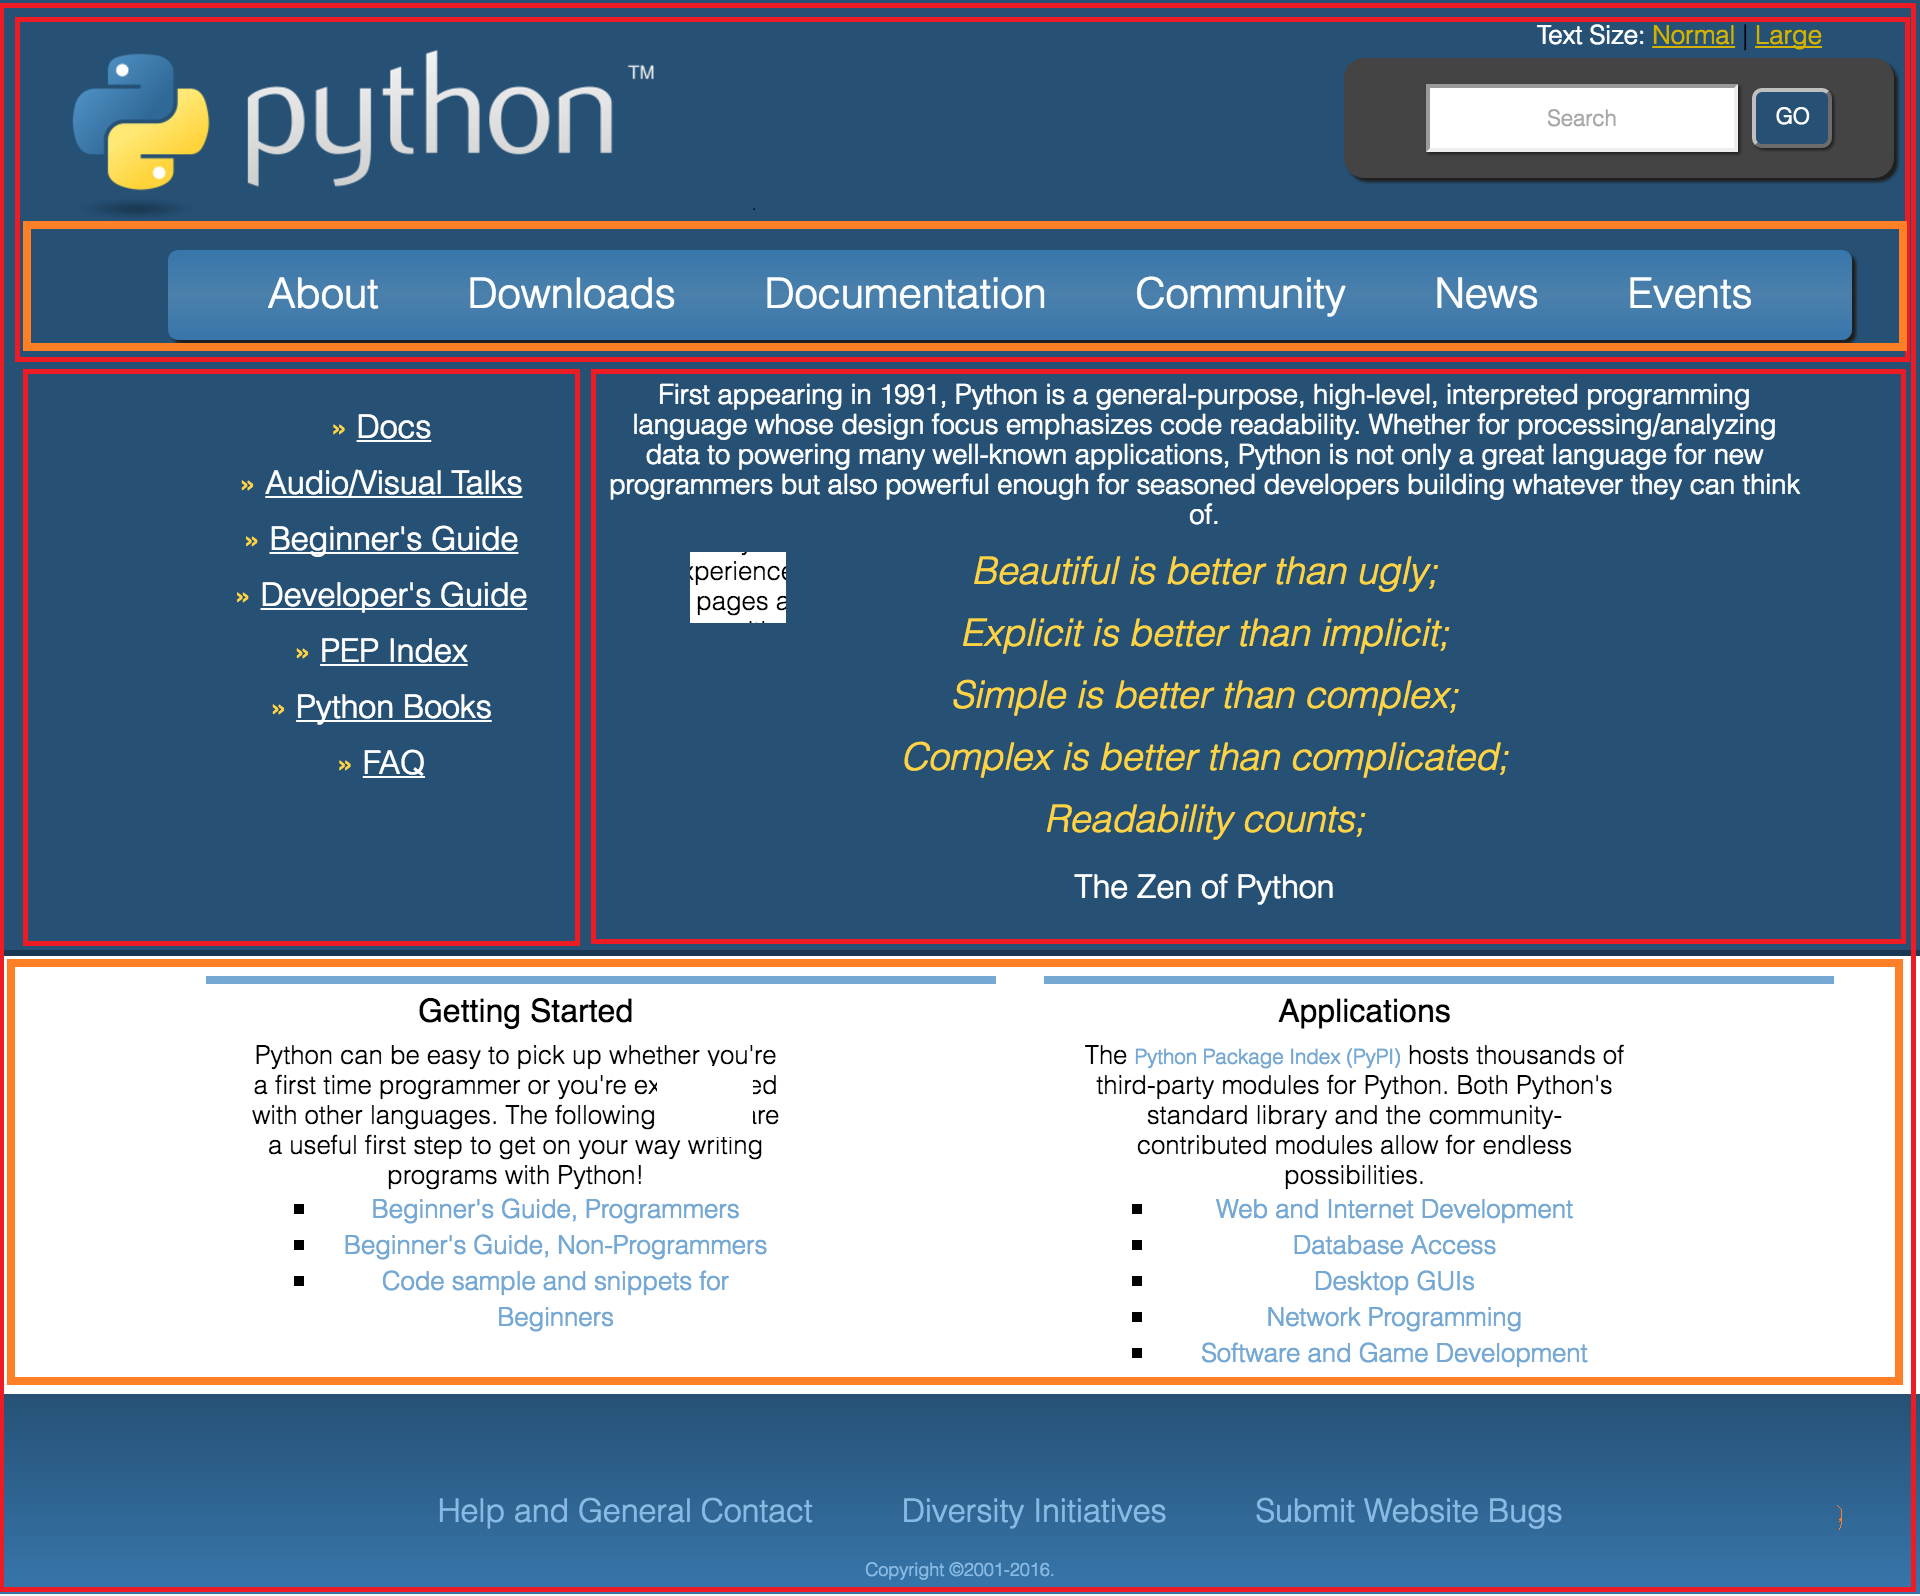
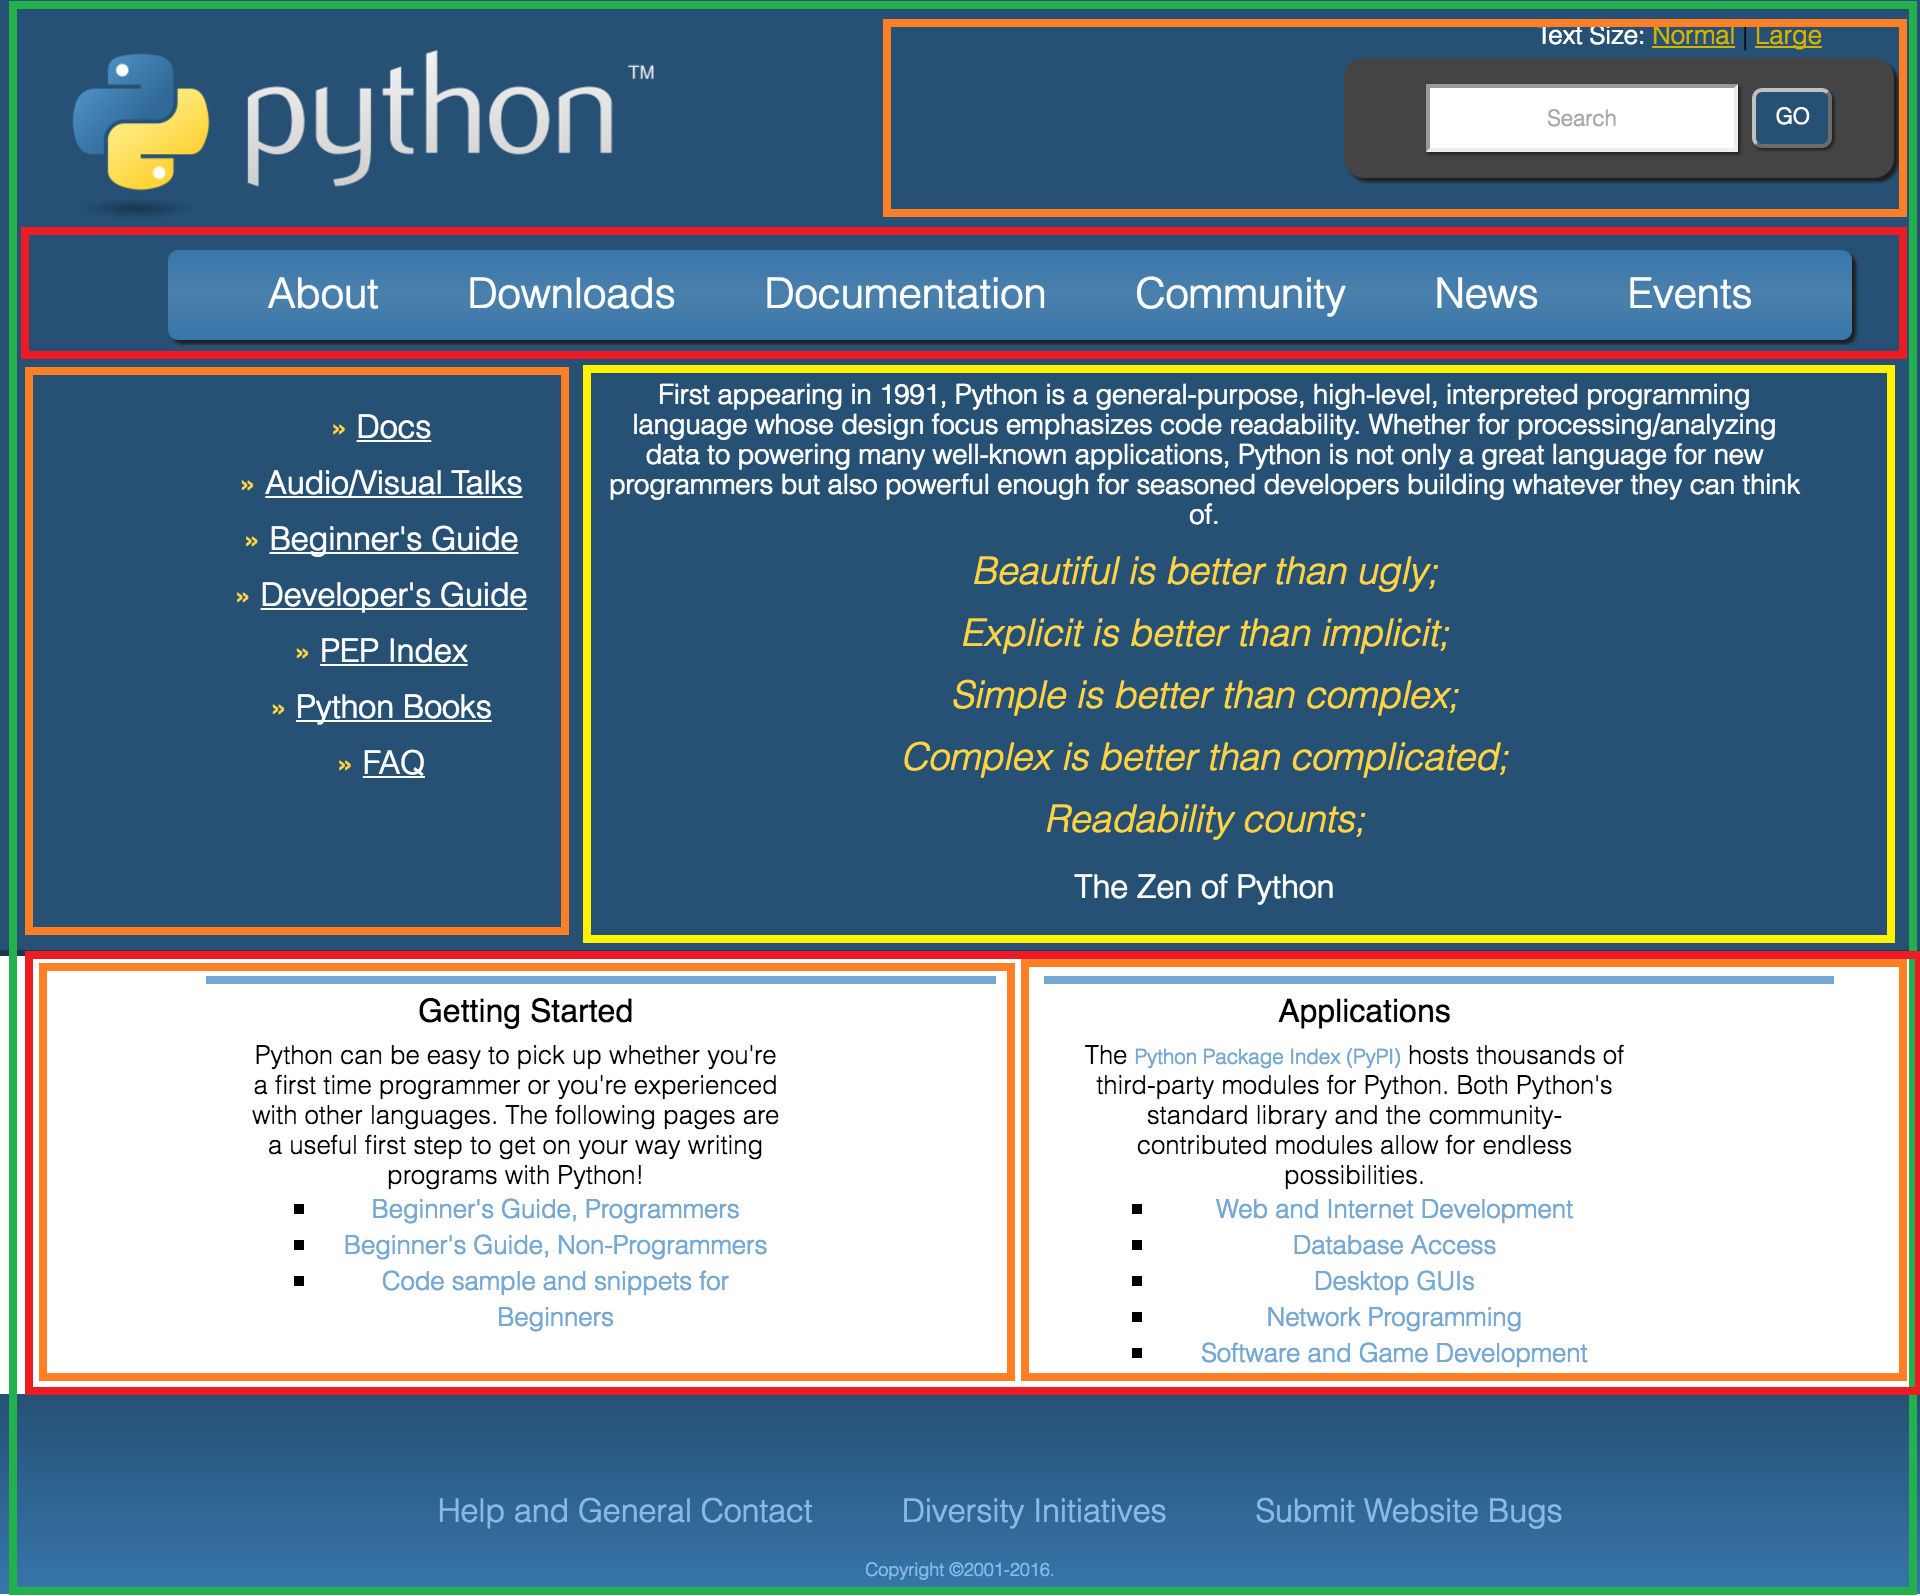
Add files via upload

Changed region(s): [[0.0, 0.0, 1.0, 1.0], [0.3438, 0.3377, 0.4062, 0.3991], [0.3438, 0.6754, 0.4062, 0.7061]]

diff --git a/CSS/tarea_Phyton/Acerca_de_Python.html b/CSS/tarea_Phyton/Acerca_de_Python.html
@@ -11,24 +11,31 @@
 
 <body>
     <div id="wrapper">
-        <div id="header">
-            <img id="logo" src="python.png" alt="logo de Python">
+
+        <img id="logo" src="python.png" alt="logo de Python">
+
+        <div id="cajaTop-right">
             <p class="uppertext"> Text Size: <a class="upperlinks" href="">Normal</a>
                 <a class="upperlinks" href="">Large</a>
             </p>
-
-            <div id="top-navegator">
-                <ul class="ul_upperbarra">
-                    <li class="barra-li"><a class="no_nunderline" href="">About</a></li>
-                    <li class="barra-li"><a class="no_nunderline" href="">Downloads</a></li>
-                    <li class="barra-li"><a class="no_nunderline" href="">Documentation</a></li>
-                    <li class="barra-li"><a class="no_nunderline" href="">Community</a></li>
-                    <li class="barra-li"><a class="no_nunderline" href="">News</a></li>
-                    <li class="barra-li"><a class="no_nunderline" href="">Events</a></li>
-                </ul>
-            </div>
-
+            <form class="searchform">
+                <input class="input" type="search" placeholder="Search">
+                <button class="Search-button" type="submit">GO</button>
+            </form>
         </div>
+
+        <div id="top-navegator">
+            <ul class="ul_upperbarra">
+                <li class="barra-li"><a class="no_underline" href="">About</a></li>
+                <li class="barra-li"><a class="no_underline" href="">Downloads</a></li>
+                <li class="barra-li"><a class="no_underline" href="">Documentation</a></li>
+                <li class="barra-li"><a class="no_underline" href="">Community</a></li>
+                <li class="barra-li"><a class="no_underline" href="">News</a></li>
+                <li class="barra-li"><a class="no_underline" href="">Events</a></li>
+            </ul>
+        </div>
+
+
         <div id="sidebar">
             <ul id="ul-sidebar">
 
@@ -43,7 +50,7 @@
             </ul>
         </div>
         <div id="descriptionbox">
-            <p>First appearing in 1991, Python is a general-purpose, high-level, interpreted programming language whose design focus emphasizes code readability. Whether for processing/analyzing data to powering many well-known applications, Python is not
+            <p id="parraf-description">First appearing in 1991, Python is a general-purpose, high-level, interpreted programming language whose design focus emphasizes code readability. Whether for processing/analyzing data to powering many well-known applications, Python is not
                 only a great language for new programmers but also powerful enough for seasoned developers building whatever they can think of. </p>
             <p class="frases">Beautifull is better than ugly;</p>
             <p class="frases">Explicit is better than implicit;</p>
@@ -58,10 +65,10 @@
                 <hr class="linestyle">
                 <h2>Getting Started</h2>
                 <p class="parrafos">Getting Started Python can be easy to pick un whether a first time programmer or you're experienced with other languages. The following pages are a useful first step to get on your way writing programs with Python! </p>
-                <ul class="bluelist">
-                    <li class="li-bluelist">Beginner´s Guide, Programmers</li>
-                    <li class="li-bluelist">Beginner´s Guide, Non-Programmers</li>
-                    <li class="li-bluelist">Code sample and snippets for Beginners</li>
+                <ul class="ul-bluelist">
+                    <li class="li-bluelist"><a id="no_underline2" href="">Beginner´s Guide, Programmers</a></li>
+                    <li class="li-bluelist"> <a id="no_underline2" href="">Beginner´s Guide, Non-Programmers</a></li>
+                    <li class="li-bluelist"><a id="no_underline2" href="">Code sample and snippets for Beginners</a> </li>
                 </ul>
             </div>
 
@@ -69,21 +76,21 @@
                 <hr class="linestyle">
                 <h2>Applications</h2>
                 <p class="parrafos"> The <span>Python Package Index (PyPI)</span> host thousands of third-party modules for python. Both python's standard library an the community-contributed modules allow for endless possibilities.</p>
-                <ul id="ul-bluelist" class="">
-                    <li class="li-bluelist">Web and Internet Development</li>
-                    <li class="li-bluelist">Database Access</li>
-                    <li class="li-bluelist">Desktop GUIs</li>
-                    <li class="li-bluelist">Network programming</li>
-                    <li class="li-bluelist">Software and Game Development</li>
+                <ul class="ul-bluelist">
+                    <li class="li-bluelist"><a id="no_underline2" href="">Web and Internet Development</a></li>
+                    <li class="li-bluelist"><a id="no_underline2" href="">Database Access</a></li>
+                    <li class="li-bluelist"><a id="no_underline2" href="">Desktop GUIs</a></li>
+                    <li class="li-bluelist"><a id="no_underline2" href="">Network programming</a></li>
+                    <li class="li-bluelist"><a id="no_underline2" href="">Software and Game Development</a></li>
                 </ul>
             </div>
 
         </div>
 
         <p class="footerdata">
-            <a class="no_nunderline" href="" target="blank">Help and General Contact</a>
-            <a class="no_nunderline" href="" target="blank">Diversity Initiatives</a>
-            <a class="no_nunderline" href="" target="blank">Submit Website Bugs</a>
+            <a class="no_underline" id="a-footer" href="" target="blank">Help and General Contact</a>
+            <a class="no_underline" id="a-footer" href="" target="blank">Diversity Initiatives</a>
+            <a class="no_underline" id="a-footer" href="" target="blank">Submit Website Bugs</a>
         </p>
         <p class="footerdata" id="copyright">Copyright ©2001-2016. </p>
 

diff --git a/CSS/tarea_Phyton/Acerca_de_Python.css b/CSS/tarea_Phyton/Acerca_de_Python.css
@@ -11,10 +11,6 @@
     background: linear-gradient(rgb(36, 80, 118), rgb(36, 80, 118), rgb(36, 80, 118), rgb(22, 64, 102), rgb(51, 115, 169));
 }
 
-#header {
-    display: inline-block;
-}
-
 #logo {
     width: 350px;
     height: auto;
@@ -22,6 +18,10 @@
     margin-left: 30px;
     display: inline-block;
     vertical-align: top;
+}
+
+#cajaTop-right {
+    display: inline-block;
 }
 
 .uppertext {
@@ -34,13 +34,52 @@
 }
 
 .upperlinks {
-    color: rgb(241, 218, 4);
+    color: #fbe200;
+}
+
+.searchform {
+    margin-left: 50%;
+    /* margin right: 10%; */
+    padding-right: 20px;
+    text-align: center;
+    background-color: rgb(65, 64, 64);
+    line-height: 50px;
+    border-radius: 7px;
+    width: 42%;
+    font-size: 10px;
+    box-shadow: 0 2px 5px 0 rgb(50, 50, 50), 0 2px 5px 0 rgba(0, 0, 0, 2);
+}
+
+.form {
+    text-align: center;
+    border-radius: 7px;
+    /* font-size: 12px; */
+    box-shadow: 0 2px 5px 0 rgb(50, 50, 50), 0 2px 5px 0 rgba(0, 0, 0, 2);
+}
+
+.input {
+    text-align: center;
+    border-color: gray;
+    font-size: 12px;
+    width: 70%;
+    line-height: 26px;
+}
+
+.Search-button {
+    background-color: #195080;
+    border-radius: 5px;
+    width: 35px;
+    height: 25px;
+    margin-left: 5px;
+    padding-left: 4px;
+    font-size: 12px;
+    box-shadow: 0 2px 5px 0 rgb(50, 50, 50), 0 2px 5px 0 rgba(0, 0, 0, 2);
 }
 
 #top-navegator {
     display: inline-block;
     margin-left: 8%;
-    width: 85%;
+    width: 88%;
     font-size: 20px;
 }
 
@@ -50,12 +89,12 @@
     text-align: center;
     /* margin: 8px; */
     background: radial-gradient( rgb(86, 148, 199), rgb(50, 122, 189));
-    box-shadow: 0 2px 5px 0 rgba(0, 0, 0, 1), 0 2px 5px 0 rgba(0, 0, 0, 1);
+    box-shadow: 0 2px 5px 0 rgb(50, 50, 50), 0 2px 5px 0 rgba(0, 0, 0, 2);
     border-radius: 5px;
     padding: 12px;
 }
 
-.no_nunderline {
+.no_underline {
     text-decoration: none;
     margin: 20px;
 }
@@ -84,26 +123,31 @@
 }
 
 .li-sidebar:before {
-    content: ">>";
-    /* Insert content that looks like bullets */
+    content: "»";
+    /* Inserta contentenido para reemplazar los bullets */
     padding-right: 8px;
-    color: rgb(255, 238, 0);
+    color: #fbe200;
     font-weight: 800;
-    font-size: 8px;
+    font-size: 10px;
 }
 
 #descriptionbox {
-    margin-left: 30px;
+    margin-left: 20px;
+    margin-right: 35px;
     text-align: center;
     font-size: 13px;
     display: inline-block;
     vertical-align: top;
-    width: 60%;
+    width: 55%;
     height: auto;
 }
 
+#parraf-description {
+    width: 108%;
+}
+
 .frases {
-    color: rgb(241, 218, 4);
+    color: #fbe200;
     font-style: italic;
     font-size: 18px;
     line-height: 15px;
@@ -135,6 +179,7 @@
 
 h2 {
     color: black;
+    line-height: 10px;
 }
 
 .parrafos {
@@ -148,13 +193,25 @@ span {
     font-size: 12px;
 }
 
-.li-bluelist {
-    color: #69A1CF;
-    list-style-type: square;
-    margin-left: 1em;
+.ul-bluelist {
+    display: inline-block;
+    vertical-align: top;
 }
 
-#ul-bluelist {}
+.li-bluelist {
+    color: black;
+    list-style-type: square;
+    margin-left: 2em;
+    padding-left: 0px;
+    padding-right: 15px;
+}
+
+#no_underline2 {
+    text-decoration: none;
+    margin: 10px;
+    color: #69A1CF;
+    line-height: 20px;
+}
 
 .footerdata {
     text-align: center;
@@ -163,8 +220,12 @@ span {
     margin-top: 50px;
     padding-left: 15px;
     padding-right: 15px;
-    /* text-decoration: none; */
     /* line-height: 5px; */
+    font-size: 18px;
+}
+
+#a-footer {
+    color: #69A1CF;
 }
 
 #copyright {
